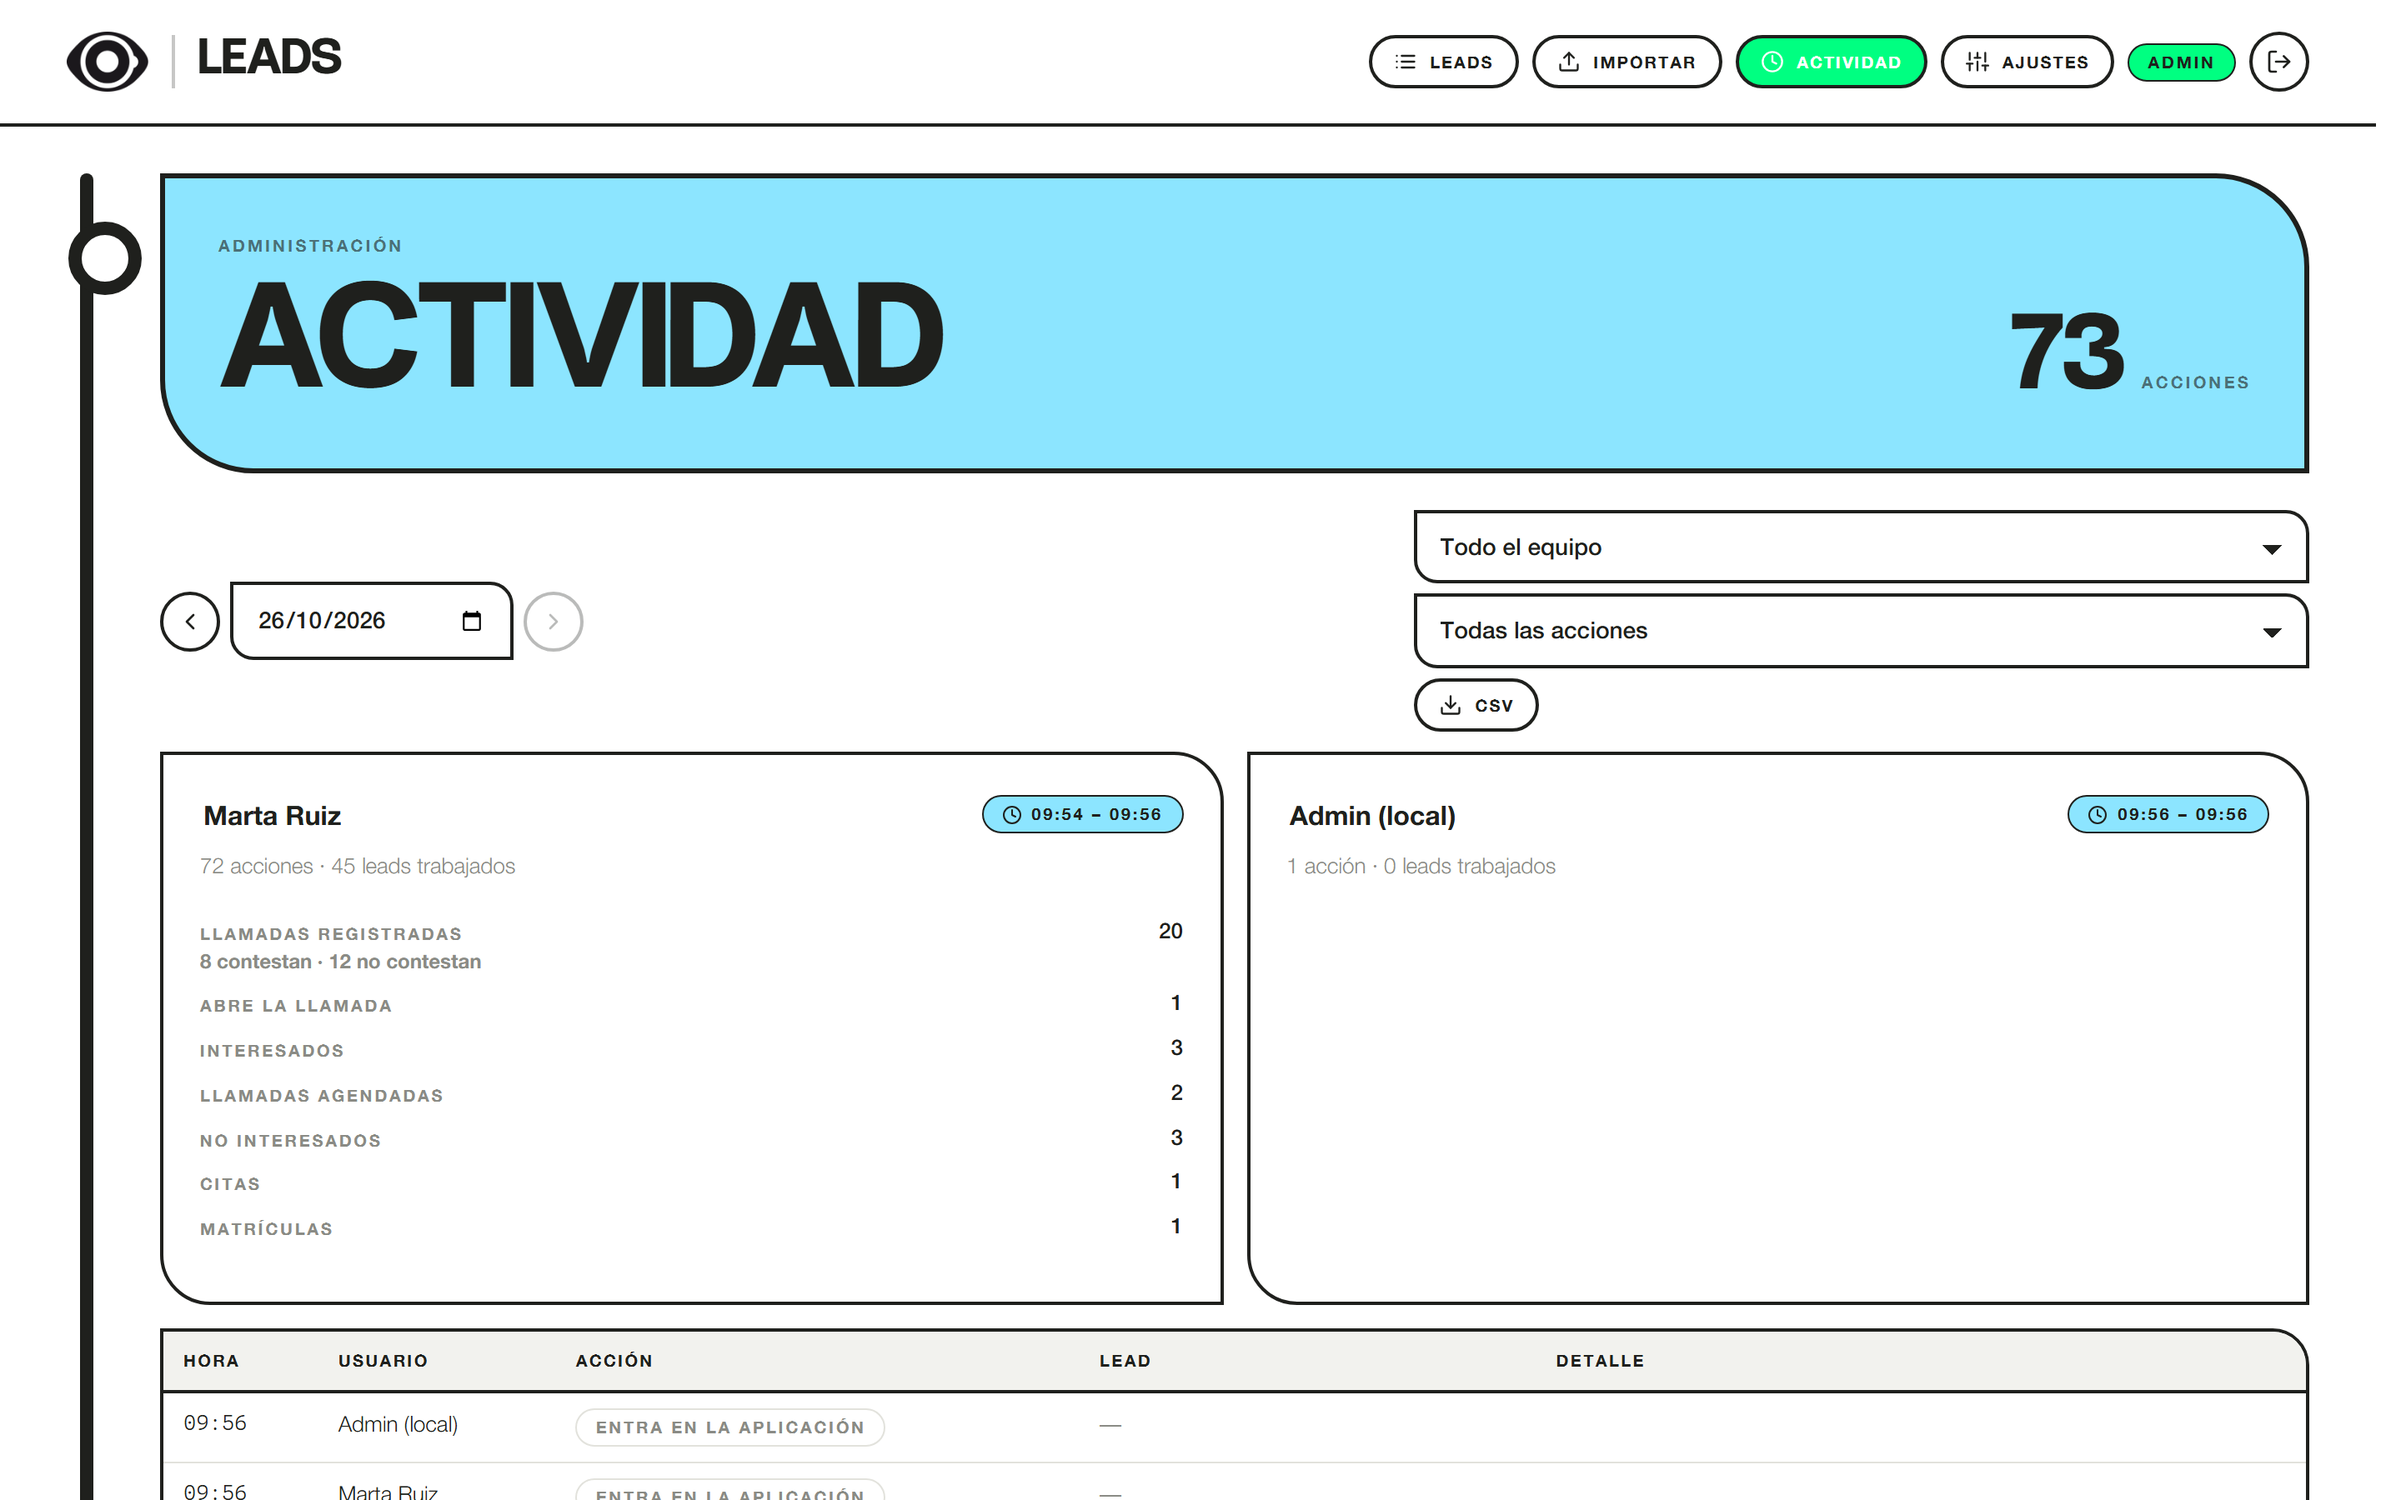
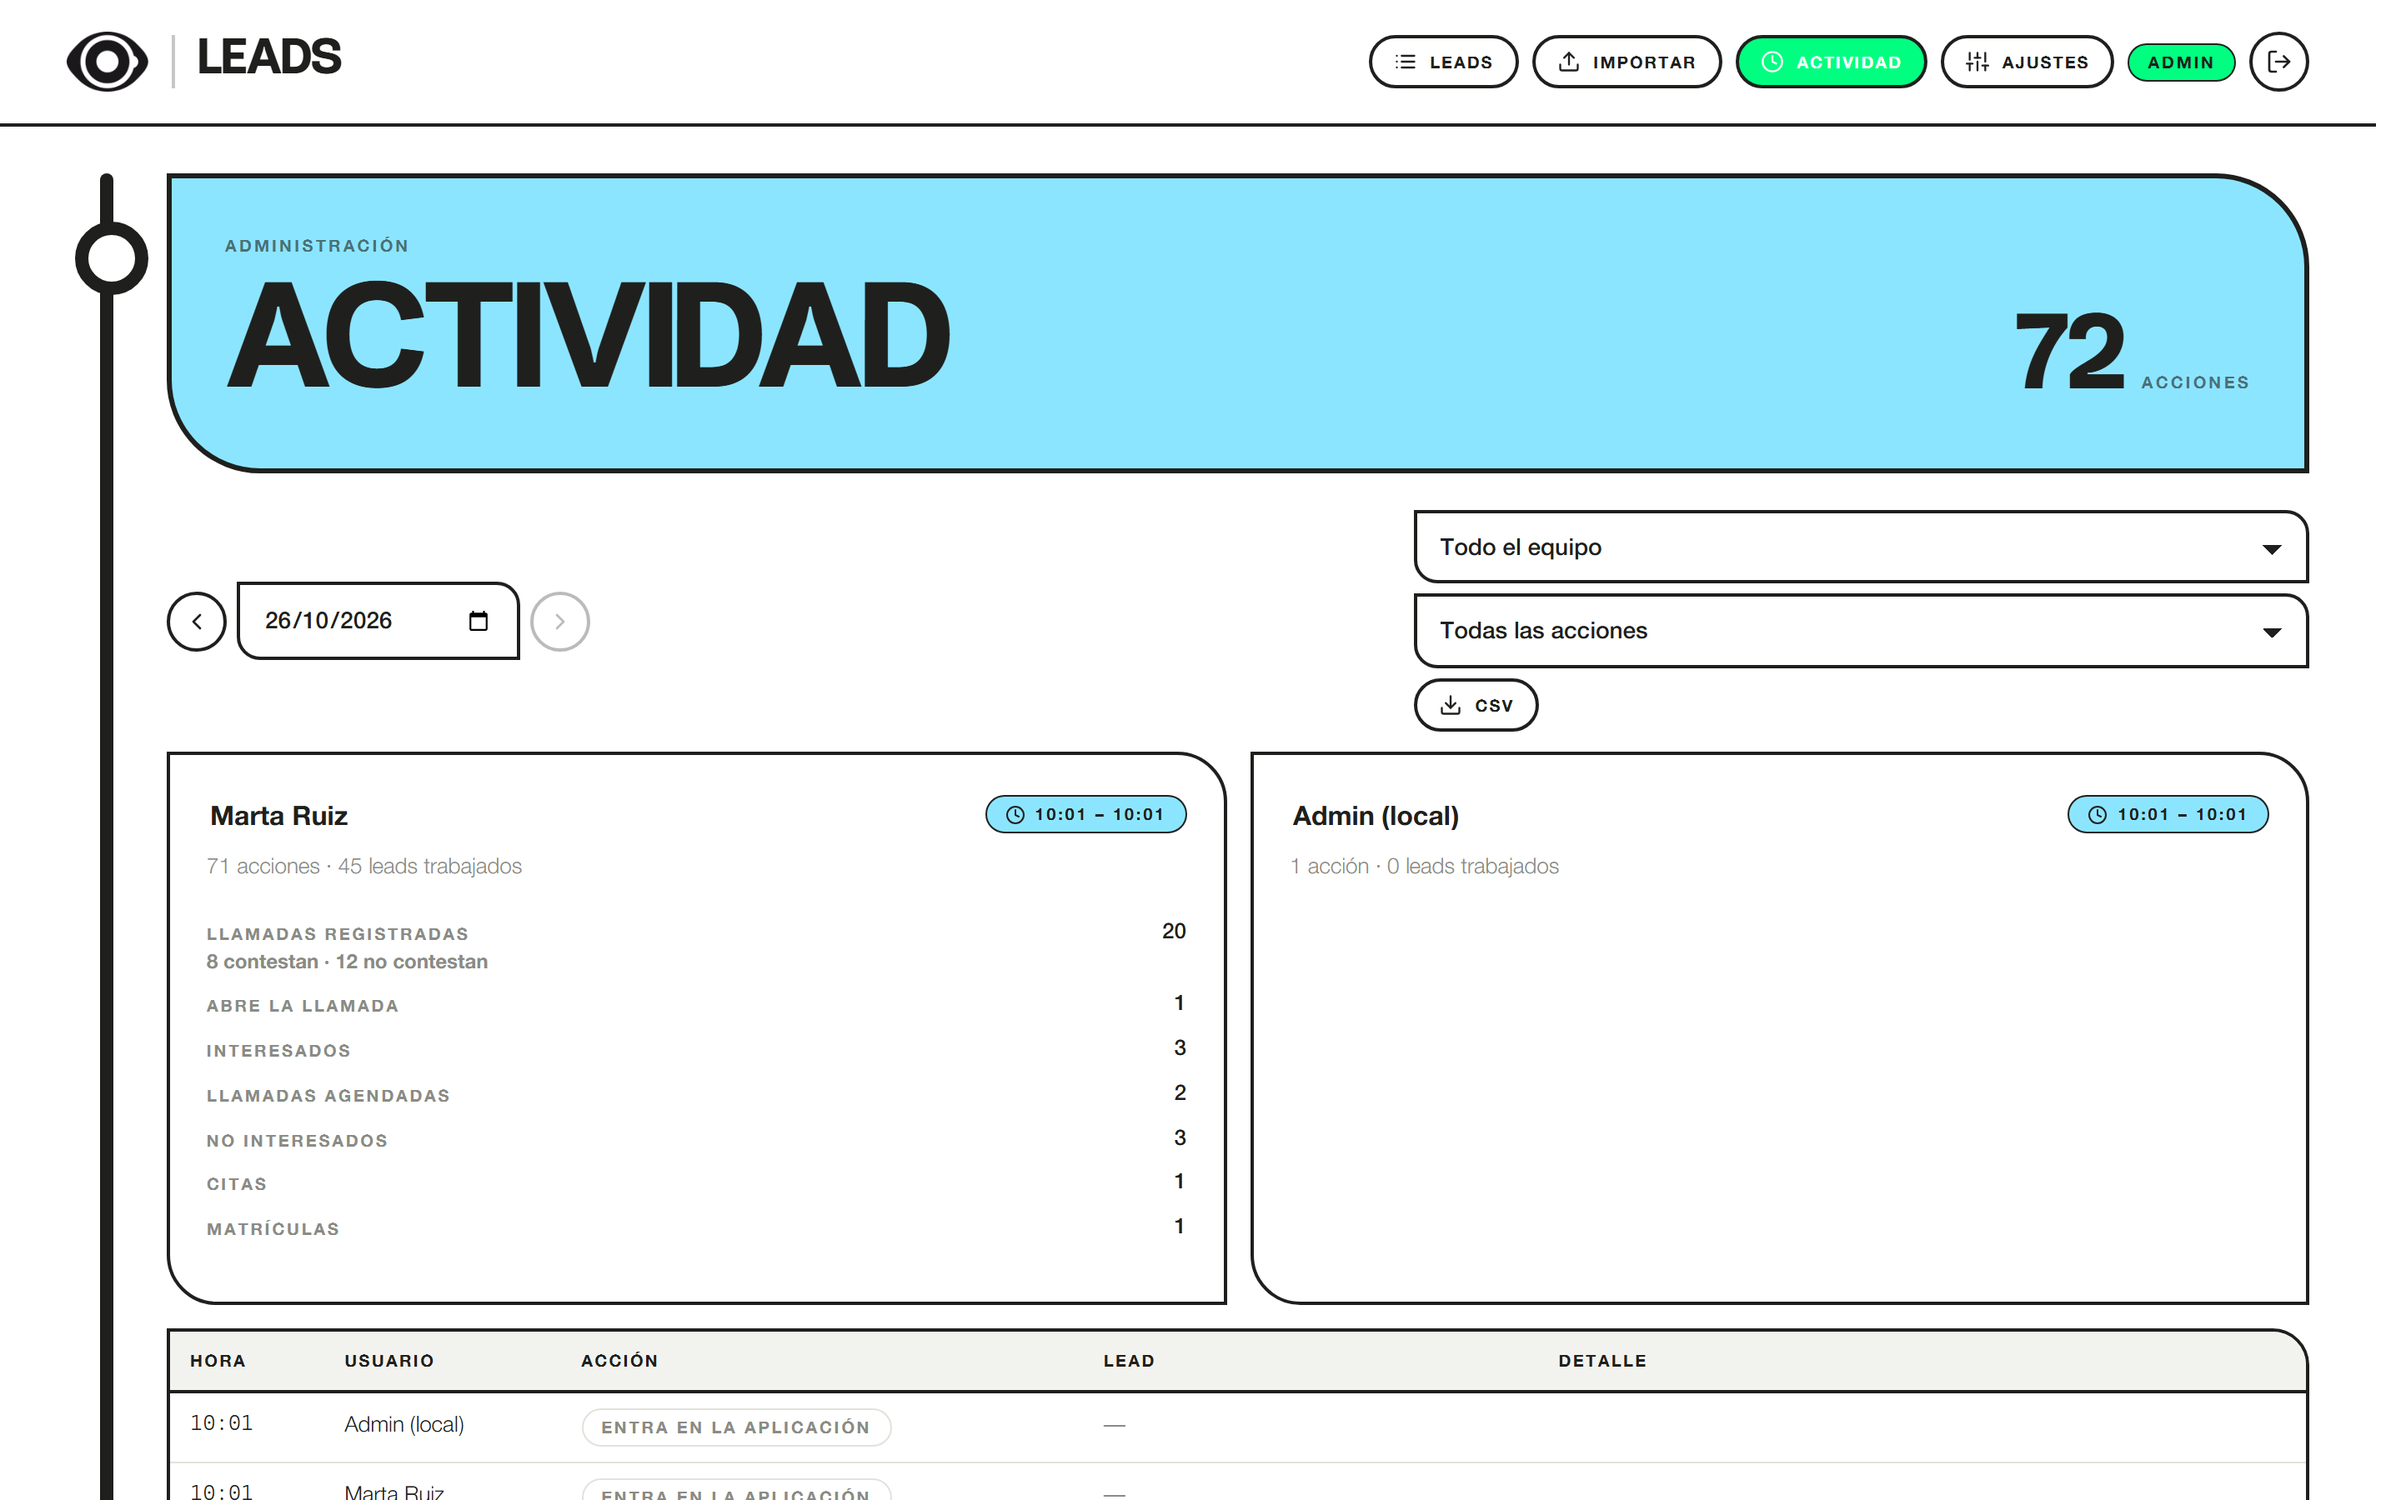
La línea de la marca sale del centro del ojo y el círculo queda centrado en ella
La línea y el círculo de cada sección se calculan a partir del tamaño del isotipo, así que los tres
comparten eje. Capturas del README rehechas con el arreglo.

diff --git a/frontend/src/styles/index.css b/frontend/src/styles/index.css
@@ -155,15 +155,24 @@ a { color: inherit; }
 
 /* ─── La línea de la marca ───────────────────────────────────────────────── */
 
-.ed-track { position: relative; }
+/* La línea baja desde el centro del ojo del logo (isotipo de 224×165 a 36 px de alto, ver .ed-header__brand img)
+   y el círculo de cada sección queda centrado sobre ella. */
+.ed-track {
+  position: relative;
+  --eye: calc(36px * 224 / 165 / 2);
+  --track-pad: 60px;
+  --line: 8px;
+  --node: 44px; /* 28 px + 8 px de borde por cada lado */
+}
 @media (min-width: 1024px) {
-  .ed-track { padding-left: 56px; }
+  .ed-track { padding-left: var(--track-pad); }
   .ed-track::after {
-    content: ''; position: absolute; left: 8px; top: 0; bottom: 40px; width: 8px;
+    content: ''; position: absolute; left: calc(var(--eye) - var(--line) / 2); top: 0; bottom: 40px; width: var(--line);
     background: var(--ink); border-radius: 999px;
   }
   .ed-stop::before {
-    content: ''; position: absolute; left: -58px; top: 26px; width: 28px; height: 28px;
+    content: ''; position: absolute; box-sizing: border-box;
+    left: calc(var(--eye) - var(--node) / 2 - var(--track-pad)); top: 26px; width: var(--node); height: var(--node);
     border: 8px solid var(--ink); border-radius: 999px; background: var(--paper); z-index: 1;
   }
 }
